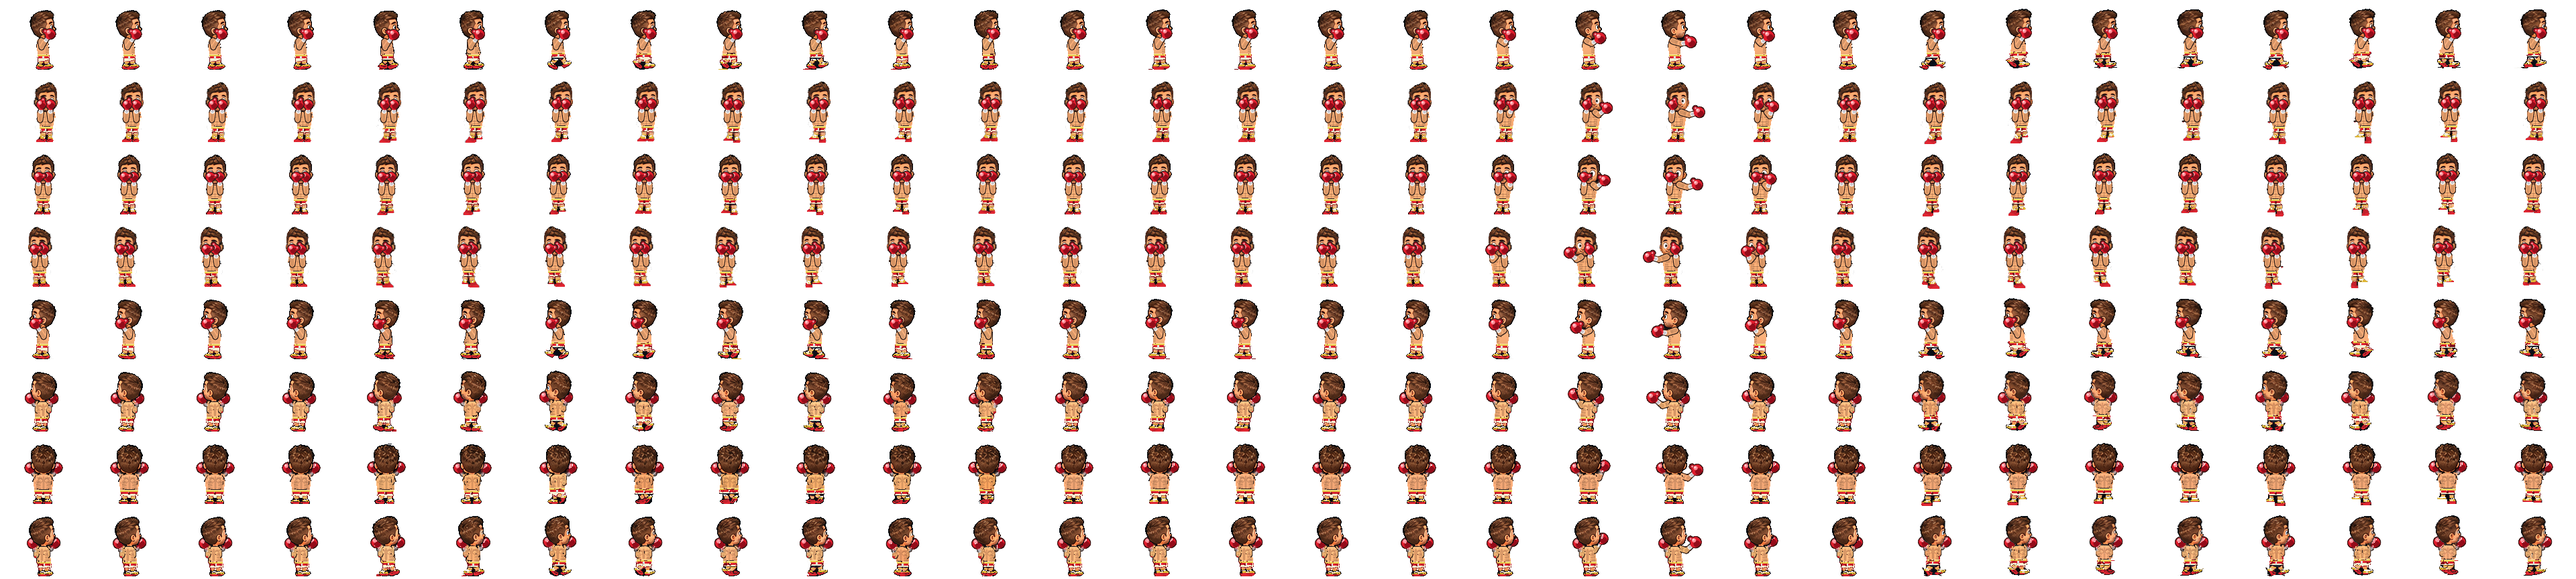
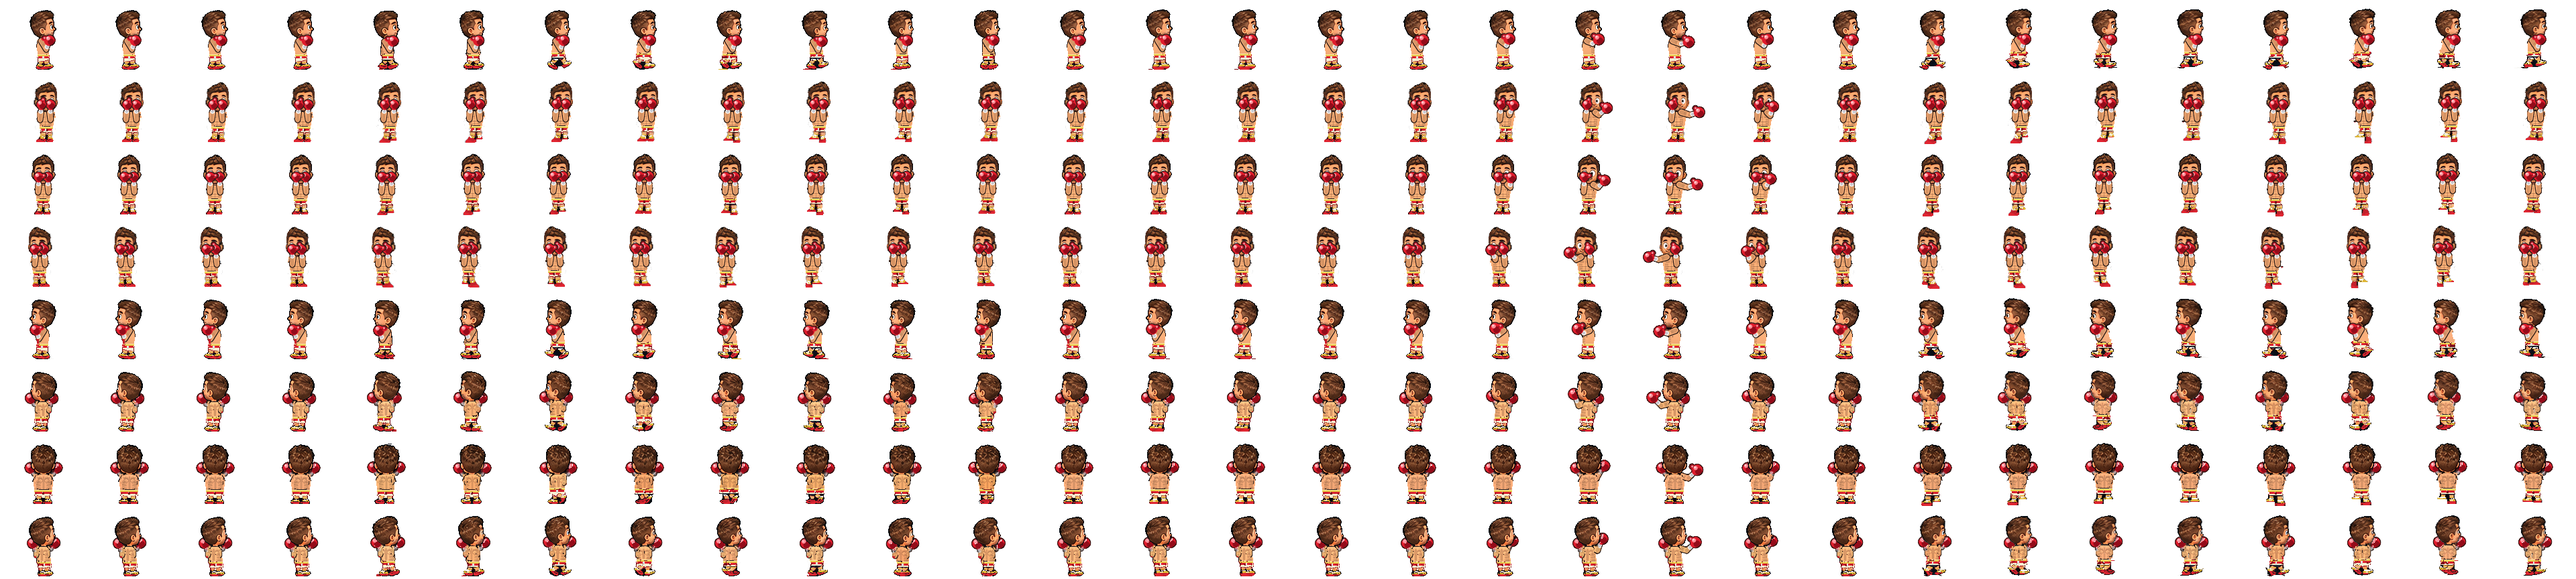
Boxer James: rebalance E/W arm to equal UA/FA ~15
Profile guard uses equal-seg down IK (L=15) with glove at chin
so elbow sits at the ribs; UA and FA both ~15 Euclidean.
Jab uses the same segment lengths. Consistency check asserts
E/W segments in 13–17.5 with |UA−FA|≤3.

diff --git a/phaser-tag-client/tools/make_boxer_skin.py b/phaser-tag-client/tools/make_boxer_skin.py
@@ -693,10 +693,11 @@ def guard_hand(sh, direction, side, bounce=0.0, gr=8.0, g=None):
     s = side or 1
     if direction in PROFILE:
         fx = PROFILE[direction]
-        # Fist in front of the face (past the nose) but not stretched — keep
-        # total arm length close to the front-view guard.
+        # Fist in front of the chin/jaw. Height chosen so equal UA/FA ≈ 15
+        # IK puts the elbow under the shoulder at the ribs (not a long
+        # vertical forearm with a stubby upper arm).
         tip = cx + fx * (hw * 0.48)
-        return (tip + fx * (gr * 0.20), mouth_y + 1.5)
+        return (tip + fx * (gr * 0.12), neck + 2.0 + bounce * 0.35)
     if direction == "N":
         # Just past each ear so a thin glove sliver peeks after the opaque
         # back/head stamp covers everything in front of the body.
@@ -714,6 +715,7 @@ def guard_hand(sh, direction, side, bounce=0.0, gr=8.0, g=None):
 
 
 JAB_REACH = [11.0, 15.5, 21.5, 27.0, 17.5, 12.0]
+JAB_REACH_PROFILE = [10.0, 14.0, 19.0, 24.0, 15.5, 11.0]
 JAB_ANG = {
     "profile": [-48, -28, -8, 4, -16, -42],
     "front":   [-60, -38, -14, 0, -20, -54],
@@ -727,16 +729,19 @@ def jab_pose(direction, p_idx, side):
     if direction in PROFILE:
         angs = JAB_ANG["profile"]
         s = PROFILE[direction]
+        reach = JAB_REACH_PROFILE
     elif direction in FRONT or direction == "S":
         angs = JAB_ANG["front"]
         s = side or 1
+        reach = JAB_REACH
     else:
         angs = JAB_ANG["back"]
         s = side or 1
+        reach = JAB_REACH
     a = angs[p_idx]
     if s < 0:
         a = 180 - a
-    return math.radians(a), JAB_REACH[p_idx]
+    return math.radians(a), reach[p_idx]
 
 
 def jab_hand(g, direction, side, p_idx, gr):
@@ -812,11 +817,17 @@ def guard_elbow_target(sh, hand, direction, side, head_cx):
     """
     s = side or 1
     if direction in PROFILE:
-        fx = PROFILE[direction]
-        # Bent elbow at the ribs — slight rear for a readable L, but short
-        # enough that UA+FA match the other directions (~11 / ~12–14).
-        ex = sh[0] + fx * 0.5
-        ey = sh[1] + 9.5
+        # Equal upper-arm / forearm (~15 each). Down-bent IK between
+        # shoulder and glove so the elbow sits at the upper ribs with the
+        # fist still in front of the face (Jim: not 9.5 / 23).
+        L = 15.0
+        e1 = ik(sh, hand, L, L, 1)
+        e2 = ik(sh, hand, L, L, -1)
+        el = e1 if e1[1] >= e2[1] else e2
+        ex, ey = el[0], el[1]
+        # Keep the bend clearly below the shoulder (readable L / V).
+        ey = max(ey, sh[1] + 6.0)
+        return (ex, ey)
     elif direction == "N":
         # Almost straight under the deltoid — hang close to the torso.
         # Only a hair outward so the elbow reads at the lat edge, not flared.
@@ -843,7 +854,7 @@ def draw_arm(size, sh, hand, skin, gr, jabbing=False, head_cx=None,
     Jab: straighten toward the punch while keeping a readable bend early on.
     """
     # Segment lengths guide jab IK only; guard elbows use an explicit target.
-    L1, L2 = 13.0, 16.0
+    L1, L2 = 15.0, 15.0
     e1 = ik(sh, hand, L1, L2, 1)
     e2 = ik(sh, hand, L1, L2, -1)
     cx = head_cx if head_cx is not None else sh[0]
@@ -870,7 +881,12 @@ def draw_arm(size, sh, hand, skin, gr, jabbing=False, head_cx=None,
         # front of the face, so do not let IK pull the joint back out.
         tgt = guard_elbow_target(sh, hand, direction or "S",
                                  side if side is not None else 1, cx)
-        elbow = (tgt[0], max(tgt[1], sh[1] + 9.0))
+        if direction in PROFILE:
+            # Equal-seg IK already places the elbow below the shoulder; do not
+            # shove it further down (that stretches FA relative to UA).
+            elbow = (tgt[0], max(tgt[1], sh[1] + 6.0))
+        else:
+            elbow = (tgt[0], max(tgt[1], sh[1] + 9.0))
         # Tiny outward clamp relative to the shoulder — keep "slightly out"
         # but never a horizontal flare past ~4px from the shoulder.
         s = side if side is not None else (1 if elbow[0] >= sh[0] else -1)

diff --git a/phaser-tag-client/tools/check_boxer_consistency.py b/phaser-tag-client/tools/check_boxer_consistency.py
@@ -498,5 +498,52 @@ for r, d in enumerate(m["directions"]):
 
 print("glove px median", {d: int(np.median(v)) for d, v in glove_counts.items()})
 print("head ratio", {d: round(float(np.median(v)), 3) for d, v in hrs.items()})
+
+# E/W profile: upper arm ≈ forearm (~14–16 each).
+def _profile_seg_lengths():
+    import math
+    lengths = {}
+    for r, d in enumerate(m["directions"]):
+        if d not in ("E", "W"):
+            continue
+        f = im[r * fh:(r + 1) * fh, 0:fw]
+        a = f[..., 3] >= 128
+        if not a.any():
+            continue
+        neck = float(pad + 48)
+        hx = np.nonzero(a[pad + 28])[0]
+        head_cx = float(hx.mean()) if len(hx) else fw / 2.0
+        head_hw = 18.0
+        fx = 1 if d == "E" else -1
+        sh = (head_cx - fx * 2.0, neck + 3.0)
+        tip = head_cx + fx * (head_hw * 0.50)
+        hand = (tip + fx * (8.0 * 0.12), neck + 2.0)
+        L1 = L2 = 15.0
+        dx, dy = hand[0] - sh[0], hand[1] - sh[1]
+        dd = math.hypot(dx, dy) or 1.0
+        dd2 = min(dd, L1 + L2 - 0.05)
+        a_len = (L1 * L1 - L2 * L2 + dd2 * dd2) / (2 * dd2)
+        hh = math.sqrt(max(L1 * L1 - a_len * a_len, 0.0))
+        ux, uy = dx / dd, dy / dd
+        cands = []
+        for bend in (1, -1):
+            px, py = -uy * bend, ux * bend
+            el = (sh[0] + ux * a_len + px * hh, sh[1] + uy * a_len + py * hh)
+            cands.append(el)
+        el = cands[0] if cands[0][1] >= cands[1][1] else cands[1]
+        el = (el[0], max(el[1], sh[1] + 6.0))
+        ua = math.hypot(el[0] - sh[0], el[1] - sh[1])
+        fa = math.hypot(hand[0] - el[0], hand[1] - el[1])
+        lengths[d] = (ua, fa)
+    return lengths
+
+for d, (ua, fa) in _profile_seg_lengths().items():
+    if not (13.0 <= ua <= 17.5 and 13.0 <= fa <= 17.5):
+        print(f"{d}: profile arm segs out of range UA={ua:.1f} FA={fa:.1f} (want ~14–16 each)")
+        bad += 1
+    elif abs(ua - fa) > 3.0:
+        print(f"{d}: profile UA/FA unbalanced {ua:.1f}/{fa:.1f} (want roughly equal)")
+        bad += 1
+
 print("boxer consistency: problems =", bad)
 raise SystemExit(1 if bad else 0)
